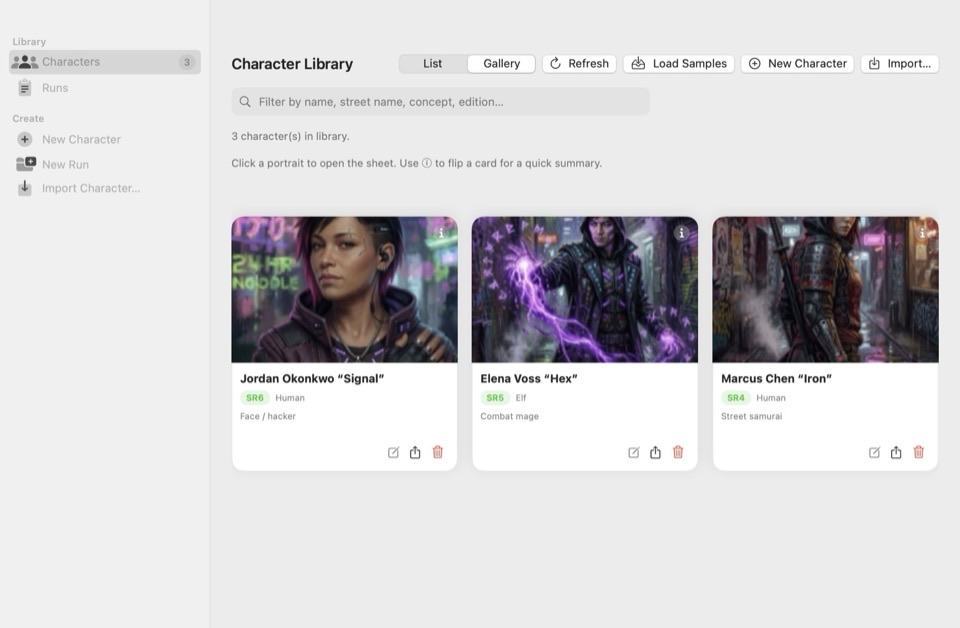
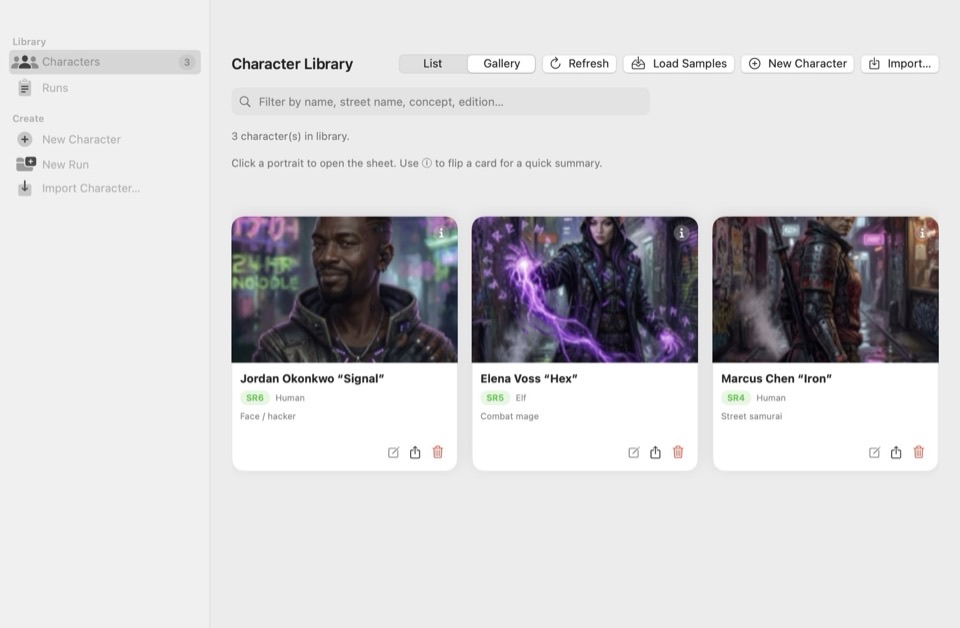
Add gender-correct sample portraits and GitHub-friendly GIF expand-to-play.
Store dedicated ChargenArt portraits for Iron, Hex, and Signal; seed samples with those assets; use README details/summary so GIF marquees expand in-page instead of opening the file browser.

Changed region(s): [[0.2812, 0.3328, 0.4688, 0.5748], [0.5625, 0.3328, 0.6562, 0.4538], [0.8125, 0.3328, 0.9062, 0.3933]]

diff --git a/ShadowDeck/Models/SampleCharacters.swift b/ShadowDeck/Models/SampleCharacters.swift
@@ -17,12 +17,13 @@ public enum SampleCharacters {
         [sr4StreetSamurai(), sr5CombatMage(), sr6FaceHacker()]
     }
 
-    /// ChargenArt role key for a sample (used when seeding library portraits).
-    public static func portraitArchetype(for characterID: UUID) -> RunnerArchetype? {
+    /// Bundled ChargenArt resource name (no extension) for a sample portrait.
+    /// Gender-correct art for deterministic sample runners; falls back to metatype art if missing.
+    public static func portraitResourceName(for characterID: UUID) -> String? {
         switch characterID {
-        case sr4ID: return .streetSamurai
-        case sr5ID: return .combatMage
-        case sr6ID: return .face
+        case sr4ID: return "sample_marcus_iron"   // male street samurai
+        case sr5ID: return "sample_elena_hex"     // female elf combat mage
+        case sr6ID: return "sample_jordan_signal" // male face / hacker
         default: return nil
         }
     }

diff --git a/ShadowDeck/Persistence/LibraryEnvironment.swift b/ShadowDeck/Persistence/LibraryEnvironment.swift
@@ -64,13 +64,13 @@ public final class LibraryEnvironment {
         }
     }
 
-    /// Saves sample runners with bundled role/metatype art as avatars (gallery + list thumbs).
+    /// Saves sample runners with bundled sample portraits (gender-correct art) as avatars.
     public func seedSampleCharactersWithPortraits() throws {
         for sample in SampleCharacters.makeAll() {
             var character = sample
-            let archetype = SampleCharacters.portraitArchetype(for: character.id)
+            let resource = SampleCharacters.portraitResourceName(for: character.id)
             if let data = ChargenArtLoader.preferredPortraitData(
-                archetype: archetype,
+                resourceName: resource,
                 metatype: character.metatype
             ) {
                 character.avatar.inlineData = data

diff --git a/ShadowDeck/UI/Generation/ChargenArtViews.swift b/ShadowDeck/UI/Generation/ChargenArtViews.swift
@@ -50,8 +50,15 @@ enum ChargenArtLoader {
         nsImage(named: metatypeImageName(metatype))
     }
 
-    /// Prefer role art for samples; fall back to metatype.
-    static func preferredPortraitData(archetype: RunnerArchetype?, metatype: MetatypeID) -> Data? {
+    /// Prefer an explicit sample resource, then role art, then metatype.
+    static func preferredPortraitData(
+        resourceName: String? = nil,
+        archetype: RunnerArchetype? = nil,
+        metatype: MetatypeID
+    ) -> Data? {
+        if let resourceName, let data = jpegData(named: resourceName) {
+            return data
+        }
         if let archetype, let data = jpegData(named: archetypeImageName(archetype)) {
             return data
         }

diff --git a/README.md b/README.md
@@ -44,20 +44,30 @@ ShadowDeck is an unofficial fan project. Build characters with a guided wizard, 
   </tr>
 </table>
 
-<!-- Feature GIFs: poster + play affordance; click opens the full looping GIF -->
+<!-- Feature GIFs: GitHub has no true in-place play control; details/summary expands the looping GIF on the page. -->
 <table align="center" width="900">
   <tr>
     <td width="50%" align="center" valign="top">
-      <a href="Docs/Screenshots/07-run-mission-flow.gif" title="Click to play">
-        <img src="Docs/Screenshots/thumbs/07-run-mission-flow-poster.jpg" alt="Run mission flow — click to play" width="420" />
-      </a><br />
-      <sub><strong>Run / mission flow</strong> — create a job, brief the team, log the session, complete objectives, set the outcome, and return to the Run Library. <em>Click to play.</em></sub>
+      <details>
+        <summary>
+          <img src="Docs/Screenshots/thumbs/07-run-mission-flow-poster.jpg" alt="Run mission flow — expand to play" width="420" /><br />
+          <sub><strong>▶ Run / mission flow</strong> — expand to play · create a job, brief the team, log the session, complete objectives, set the outcome, return to the Run Library</sub>
+        </summary>
+        <p align="center">
+          <img src="Docs/Screenshots/07-run-mission-flow.gif" alt="Run mission flow animation" width="420" />
+        </p>
+      </details>
     </td>
     <td width="50%" align="center" valign="top">
-      <a href="Docs/Screenshots/08-advancement-planner.gif" title="Click to play">
-        <img src="Docs/Screenshots/thumbs/08-advancement-planner-poster.jpg" alt="Advancement planner flow — click to play" width="420" />
-      </a><br />
-      <sub><strong>Advancement Planner</strong> — plan skill and attribute raises with edition karma costs, apply the plan, and see ranks and available karma update. <em>Click to play.</em></sub>
+      <details>
+        <summary>
+          <img src="Docs/Screenshots/thumbs/08-advancement-planner-poster.jpg" alt="Advancement planner — expand to play" width="420" /><br />
+          <sub><strong>▶ Advancement Planner</strong> — expand to play · plan skill and attribute raises, apply karma, watch ranks update</sub>
+        </summary>
+        <p align="center">
+          <img src="Docs/Screenshots/08-advancement-planner.gif" alt="Advancement planner animation" width="420" />
+        </p>
+      </details>
     </td>
   </tr>
 </table>

diff --git a/Docs/Screenshots/README.md b/Docs/Screenshots/README.md
@@ -22,6 +22,6 @@ Full UI stills ~1800px long edge; thumbs ~960px. GIFs are silent and looping; st
 
 **Automation:** The capture script optimizes GIFs, builds still thumbs, generates **click-to-play posters** (play glyph on a mid-GIF frame), copies assets into this folder, then **deletes originals** from the app’s Application Support capture directory so the repo copy is the source of truth.
 
-**Click-to-play:** GitHub autoplays embedded GIFs, so the README links a static poster to the full GIF.
+**Click-to-play:** GitHub has no pause/play control for GIFs and autoplays any embedded GIF. The README uses a `<details>` / `<summary>` poster; expanding reveals the looping GIF on the same page (better than linking to the raw file browser).
 
 **Privacy:** Capture always uses an **in-memory** library seeded with sample characters only (`LibraryEnvironment.marketingCapture()`). The mission GIF creates its own run. Your on-disk personal libraries are never opened during marquee capture.
